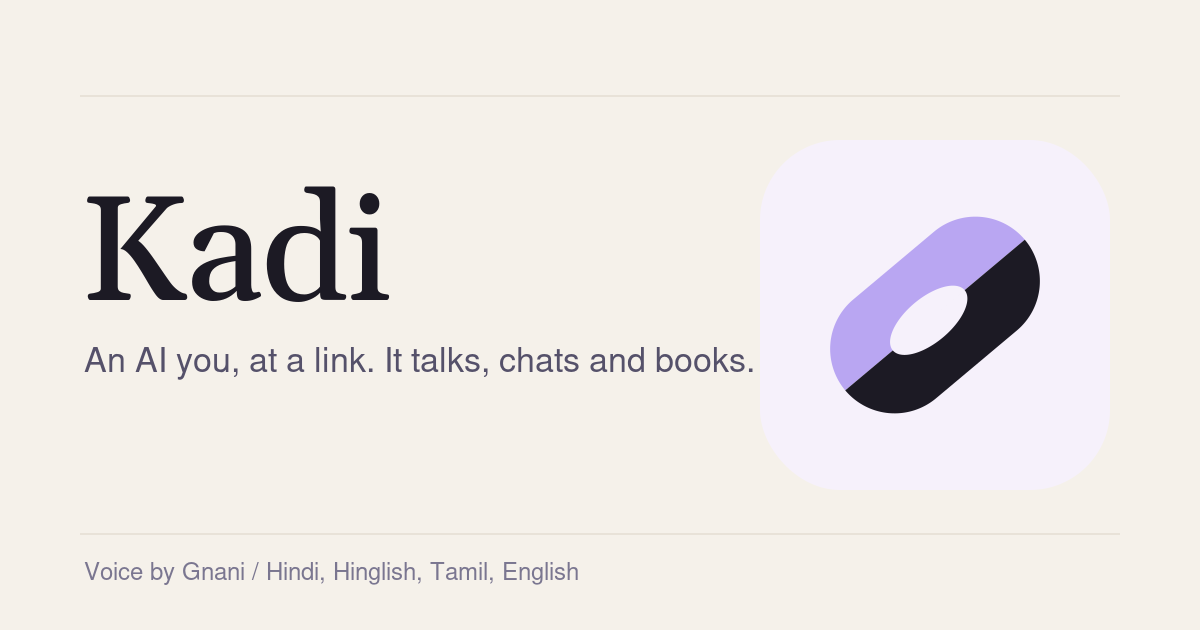
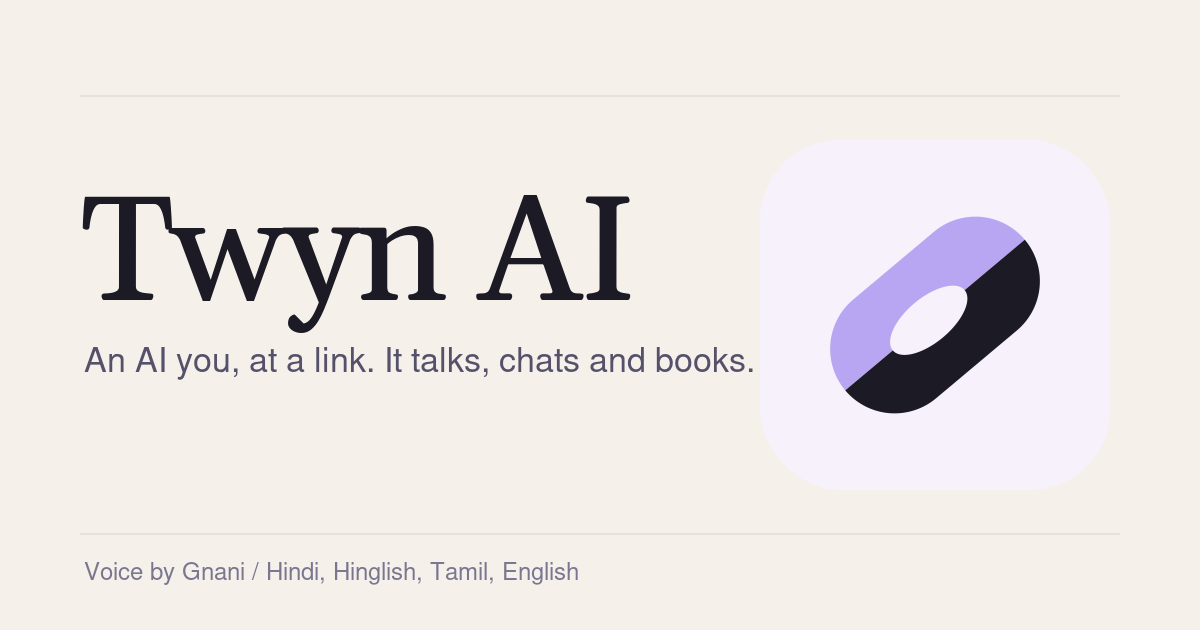
Rebrand Kadi to Twyn AI

Changed region(s): [[0.0617, 0.2714, 0.37, 0.5429], [0.4008, 0.3016, 0.5242, 0.4825]]

diff --git a/web/app/onboarding/page.tsx b/web/app/onboarding/page.tsx
@@ -106,7 +106,7 @@ export default function Onboarding() {
     if (i === 1) {
       if (!d.name.trim()) e.name = "Add your name.";
       if (!d.headline.trim()) e.headline = "Add a one-line role.";
-      if (d.bio.trim().length < 40) e.bio = "Write at least a couple of sentences so Kadi has something to go on.";
+      if (d.bio.trim().length < 40) e.bio = "Write at least a couple of sentences so Twyn has something to go on.";
       if (!d.languages.length) e.languages = "Pick at least one language.";
     }
     if (i === 2) d.links.forEach((l, k) => { if (l.url && !/^https?:\/\//.test(l.url)) e["link" + k] = "Links should start with https://"; });
@@ -196,10 +196,10 @@ function Head({ k, t, d }: { k: string; t: string; d: string }) {
 function HandleStep({ d, set, avail, errs }: any) {
   return (
     <div>
-      <Head k="Your link" t="Claim your handle" d="This is the link people will use to talk to your Kadi. Keep it short and easy to say." />
+      <Head k="Your link" t="Claim your handle" d="This is the link people will use to talk to your Twyn. Keep it short and easy to say." />
       <Label t="Handle" err={errs.handle}>
         <div className="clay-pressed flex items-center px-4">
-          <span className="text-ink-mute">kadi.link/</span>
+          <span className="text-ink-mute">twyn.ai/</span>
           <input autoFocus disabled={!!d.id} value={d.handle} onChange={(e) => set({ handle: e.target.value.toLowerCase().replace(/[^a-z0-9-]/g, "") })}
             placeholder="yourname" className="min-w-0 flex-1 bg-transparent py-3.5 font-medium outline-none placeholder:text-ink-mute/70" />
           {d.id ? <span className="text-xs text-ink-mute">locked</span> : avail === true ? <span className="flex items-center gap-1 text-xs text-mint-deep"><Check size={13} />Available</span> : avail === false ? <span className="flex items-center gap-1 text-xs text-peach-deep"><X size={13} />Taken</span> : null}
@@ -217,7 +217,7 @@ function BasicsStep({ d, set, errs }: any) {
   const toggle = (l: string) => set({ languages: d.languages.includes(l) ? d.languages.filter((x: string) => x !== l) : [...d.languages, l] });
   return (
     <div>
-      <Head k="Persona" t="Tell Kadi who you are" d="These basics shape how your Kadi introduces you and how it sounds." />
+      <Head k="Persona" t="Tell Twyn who you are" d="These basics shape how your Twyn introduces you and how it sounds." />
       <div className="grid gap-5 md:grid-cols-2">
         <Label t="Name" err={errs.name}><input className={input} value={d.name} onChange={(e) => set({ name: e.target.value })} placeholder="Hardik Gupta" /></Label>
         <Label t="Role" err={errs.headline}><input className={input} value={d.headline} onChange={(e) => set({ headline: e.target.value })} placeholder="Full-stack and AI engineer" /></Label>
@@ -243,7 +243,7 @@ function KnowledgeStep({ d, set, errs }: any) {
   const del = (k: "faqs" | "links", i: number) => set({ [k]: d[k].filter((_: any, j: number) => j !== i) });
   return (
     <div>
-      <Head k="Knowledge" t="What should it know?" d="Kadi only answers from what you add here. Anything else, it will say it does not know." />
+      <Head k="Knowledge" t="What should it know?" d="Twyn only answers from what you add here. Anything else, it will say it does not know." />
       <Label t="Rates and pricing" hint="optional"><input className={input} value={d.rates} onChange={(e) => set({ rates: e.target.value })} placeholder="MVP builds from 25,000 rupees per week. Discovery calls are free." /></Label>
 
       <div className="mt-7 flex items-center justify-between"><span className="text-sm font-medium">FAQs</span>
@@ -321,7 +321,7 @@ function VoiceStep({ d, set }: any) {
   }
   return (
     <div>
-      <Head k="Voice" t="Teach it your voice" d="Read anything out loud for 10 to 30 seconds in a quiet room. Kadi uses this sample to speak like you." />
+      <Head k="Voice" t="Teach it your voice" d="Read anything out loud for 10 to 30 seconds in a quiet room. Twyn uses this sample to speak like you." />
       <div className="grid items-center gap-8 md:grid-cols-[auto_1fr]">
         <div className="grid place-items-center"><Orb size={130} state={rec ? "listening" : busy ? "thinking" : "idle"} level={level} /></div>
         <div>
@@ -343,7 +343,7 @@ function VoiceStep({ d, set }: any) {
           {(msg || d.has_voice) && <p className="mt-3 flex items-center gap-1.5 text-sm text-mint-deep"><Check size={14} />{msg || "A voice sample is saved."}</p>}
           {d.has_voice && !rec && (
             <div className="mt-4 flex flex-wrap items-center gap-3">
-              <button onClick={listen} disabled={pBusy} className="clay-sm inline-flex items-center gap-2 bg-mint px-4 py-2.5 text-sm font-medium">{pBusy ? <Loader2 size={14} className="animate-spin" /> : <Volume2 size={15} />}Hear my Kadi voice</button>
+              <button onClick={listen} disabled={pBusy} className="clay-sm inline-flex items-center gap-2 bg-mint px-4 py-2.5 text-sm font-medium">{pBusy ? <Loader2 size={14} className="animate-spin" /> : <Volume2 size={15} />}Hear my Twyn voice</button>
               {preview && <audio id="clone-preview" src={preview} controls className="h-10" />}
             </div>
           )}
@@ -357,14 +357,14 @@ function CalendarStep({ me }: any) {
   const on = !!me?.google_tokens;
   return (
     <div>
-      <Head k="Calendar" t="Connect Google Calendar" d="Kadi checks when you are free and books meetings straight into your calendar. It never sees event details, only busy times." />
+      <Head k="Calendar" t="Connect Google Calendar" d="Twyn checks when you are free and books meetings straight into your calendar. It never sees event details, only busy times." />
       <div className="glass flex flex-wrap items-center gap-5 p-6">
         <span className="clay-sm grid h-12 w-12 place-items-center bg-white"><CalendarDays size={20} className="text-sky-deep" /></span>
         <div className="flex-1"><p className="font-medium">Google Calendar</p><p className="text-sm text-ink-soft">{on ? `Connected as ${me.email}` : "Free/busy and event creation only"}</p></div>
         {on ? <span className="inline-flex items-center gap-1.5 rounded-full bg-mint px-3 py-1.5 text-sm font-medium"><Check size={14} />Connected</span>
           : <a href={`${API}/api/auth/google/start`} className="rounded-full bg-ink px-5 py-3 text-sm font-medium text-canvas">Connect</a>}
       </div>
-      {!on && <p className="mt-4 text-sm text-ink-mute">Skip this and Kadi will offer slots from your availability rules, then email you each booking to confirm.</p>}
+      {!on && <p className="mt-4 text-sm text-ink-mute">Skip this and Twyn will offer slots from your availability rules, then email you each booking to confirm.</p>}
     </div>
   );
 }
@@ -374,7 +374,7 @@ function AvailabilityStep({ d, set, errs }: any) {
   const sel = "clay-pressed rounded-xl bg-transparent px-3 py-2.5 text-sm outline-none";
   return (
     <div>
-      <Head k="Availability" t="When can people book you?" d="Kadi only offers times inside these rules, and skips anything already on your calendar." />
+      <Head k="Availability" t="When can people book you?" d="Twyn only offers times inside these rules, and skips anything already on your calendar." />
       <Label t="Days" err={errs.avail}><div className="flex flex-wrap gap-2">{DAYS.map((x, i) => <Chip key={x} on={a.days.includes(i)} onClick={() => up({ days: a.days.includes(i) ? a.days.filter((y: number) => y !== i) : [...a.days, i].sort() })}>{x}</Chip>)}</div></Label>
       <div className="mt-6 grid gap-5 sm:grid-cols-2">
         <Label t="Hours"><div className="flex items-center gap-2"><input type="time" className={sel} value={a.start} onChange={(e) => up({ start: e.target.value })} /><span className="text-ink-mute">to</span><input type="time" className={sel} value={a.end} onChange={(e) => up({ end: e.target.value })} /><span className="text-xs text-ink-mute">IST</span></div></Label>
@@ -403,11 +403,11 @@ function PublishStep({ d, publish, saving }: any) {
       {!d.published ? (<>
         <Head k="Review" t="Ready to go live" d="Check the details below. You can change any of them later in the Studio." />
         <dl className="divide-y divide-ink/5">{rows.map(([k, v]) => <div key={k} className="flex gap-6 py-3 text-sm"><dt className="w-28 shrink-0 text-ink-mute">{k}</dt><dd className="text-ink">{v}</dd></div>)}</dl>
-        <motion.button whileTap={{ scale: 0.97 }} onClick={publish} disabled={saving} className="mt-8 inline-flex items-center gap-2 rounded-full bg-ink px-6 py-3.5 text-sm font-medium text-canvas">{saving && <Loader2 size={15} className="animate-spin" />}Publish my Kadi</motion.button>
+        <motion.button whileTap={{ scale: 0.97 }} onClick={publish} disabled={saving} className="mt-8 inline-flex items-center gap-2 rounded-full bg-ink px-6 py-3.5 text-sm font-medium text-canvas">{saving && <Loader2 size={15} className="animate-spin" />}Publish my Twyn</motion.button>
       </>) : (
         <motion.div initial={{ opacity: 0, scale: 0.98 }} animate={{ opacity: 1, scale: 1 }} className="text-center">
           <div className="mx-auto grid place-items-center"><Orb size={110} state="speaking" level={0.3} /></div>
-          <h1 className="display text-5xl">Your Kadi is live.</h1>
+          <h1 className="display text-5xl">Your Twyn is live.</h1>
           <p className="mx-auto mt-2 max-w-sm text-ink-soft">Share this link anywhere. Conversations, leads and bookings show up in your dashboard.</p>
           <div className="clay-pressed mx-auto mt-7 flex max-w-md items-center gap-2 py-2 pl-4 pr-2">
             <span className="flex-1 truncate text-left text-sm font-medium">{link.replace(/^https?:\/\//, "")}</span>

diff --git a/web/app/studio/page.tsx b/web/app/studio/page.tsx
@@ -41,7 +41,7 @@ export default function Studio() {
       <AppNav handle={p?.handle} />
       <div className="mx-auto mt-10 w-[min(1200px,calc(100%-2.5rem))]">
         <div className="mb-8 flex flex-wrap items-end justify-between gap-4">
-          <div><div className="text-sm text-ink-mute">Persona studio</div><h1 className="display mt-1 text-5xl md:text-6xl">{p ? `Tune ${p.name.split(" ")[0]}'s Kadi` : "Create your Kadi"}</h1></div>
+          <div><div className="text-sm text-ink-mute">Persona studio</div><h1 className="display mt-1 text-5xl md:text-6xl">{p ? `Tune ${p.name.split(" ")[0]}'s Twyn` : "Create your Twyn"}</h1></div>
           <div className="flex items-center gap-3">{saved && <Pill tone="mint"><Check size={12} />{saved}</Pill>}<Button onClick={save}>{p ? "Save changes" : "Create persona"}</Button></div>
         </div>
         <div className="grid gap-6 lg:grid-cols-[1fr_380px]">
@@ -50,9 +50,9 @@ export default function Studio() {
               <h2 className="mb-5 text-2xl">Identity</h2>
               <div className="grid gap-4 md:grid-cols-2">
                 <Field label="Display name"><input className="field clay-pressed" value={f.name} onChange={(e) => set("name", e.target.value)} placeholder="Hardik Gupta" /></Field>
-                <Field label="Handle" hint="kadi.link/handle"><input className="field clay-pressed" disabled={!!p} value={f.handle} onChange={(e) => set("handle", e.target.value)} placeholder="hardik" /></Field>
+                <Field label="Handle" hint="twyn.ai/handle"><input className="field clay-pressed" disabled={!!p} value={f.handle} onChange={(e) => set("handle", e.target.value)} placeholder="hardik" /></Field>
                 <div className="md:col-span-2"><Field label="Headline"><input className="field clay-pressed" value={f.headline} onChange={(e) => set("headline", e.target.value)} placeholder="Full-stack and AI engineer" /></Field></div>
-                <div className="md:col-span-2"><Field label="Bio" hint="Kadi speaks from this"><textarea rows={4} className="field clay-pressed resize-none" value={f.bio} onChange={(e) => set("bio", e.target.value)} /></Field></div>
+                <div className="md:col-span-2"><Field label="Bio" hint="Twyn speaks from this"><textarea rows={4} className="field clay-pressed resize-none" value={f.bio} onChange={(e) => set("bio", e.target.value)} /></Field></div>
                 <Field label="Rates"><textarea rows={3} className="field clay-pressed resize-none" value={f.rates} onChange={(e) => set("rates", e.target.value)} /></Field>
                 <Field label="Tone of voice"><textarea rows={3} className="field clay-pressed resize-none" value={f.tone} onChange={(e) => set("tone", e.target.value)} /></Field>
               </div>
@@ -83,7 +83,7 @@ export default function Studio() {
                 <button onClick={() => navigator.clipboard.writeText(link)} className="text-ink-soft hover:text-ink"><Copy size={16} /></button></div></Card>}
             <Card>
               <div className="clay-sm mb-4 grid h-11 w-11 place-items-center bg-peach"><FileText size={18} /></div>
-              <h3 className="text-xl">Knowledge</h3><p className="mt-1 text-sm text-ink-soft">PDF, Markdown or text. Kadi only answers from what you add.</p>
+              <h3 className="text-xl">Knowledge</h3><p className="mt-1 text-sm text-ink-soft">PDF, Markdown or text. Twyn only answers from what you add.</p>
               <label className={`clay-sm mt-4 flex cursor-pointer items-center justify-center gap-2 bg-canvas px-4 py-3 text-sm font-medium ${!p && "pointer-events-none opacity-50"}`}><Upload size={15} />Upload document<input type="file" accept=".pdf,.txt,.md" className="hidden" onChange={(e) => upload("docs", e.target.files?.[0])} /></label>
               <div className="mt-3 space-y-2">{docs.map((d) => <div key={d.name} className="flex justify-between text-sm"><span className="truncate">{d.name}</span><span className="text-ink-mute">{d.chunks} chunks</span></div>)}</div>
             </Card>
@@ -95,12 +95,12 @@ export default function Studio() {
             </Card>
             <Card>
               <div className="clay-sm mb-4 grid h-11 w-11 place-items-center bg-sky"><CalendarCheck size={18} /></div>
-              <h3 className="text-xl">Google Calendar</h3><p className="mt-1 text-sm text-ink-soft">Free/busy and booking. Kadi only offers slots you are actually free.</p>
+              <h3 className="text-xl">Google Calendar</h3><p className="mt-1 text-sm text-ink-soft">Free/busy and booking. Twyn only offers slots you are actually free.</p>
               <div className="mt-3">{me?.google_tokens ? <Pill tone="mint">Connected</Pill> : <Pill tone="butter">Demo calendar in use</Pill>}</div>
               <a href={`${API}/api/auth/google/start`} className="clay-sm mt-4 flex items-center justify-center bg-canvas px-4 py-3 text-sm font-medium">Connect Google Calendar</a>
             </Card>
             <Card>
-              <h3 className="text-xl">Availability</h3><p className="mt-1 text-sm text-ink-soft">Kadi only offers slots inside these rules, minus busy times.</p>
+              <h3 className="text-xl">Availability</h3><p className="mt-1 text-sm text-ink-soft">Twyn only offers slots inside these rules, minus busy times.</p>
               {(() => { const av = { ...DEF_AV, ...(f.availability || {}) }; const up = (k: string, v: any) => set("availability", { ...av, [k]: v });
                 return (<div className="mt-4 space-y-3 text-sm">
                   <div className="flex flex-wrap gap-1.5">{DAYS.map((d, i) => { const on = av.days.includes(i); return (

diff --git a/web/app/p/[handle]/page.tsx b/web/app/p/[handle]/page.tsx
@@ -32,7 +32,7 @@ export default function PublicPersona() {
   const raf = useRef<number>(0);
   const end = useRef<HTMLDivElement>(null);
 
-  useEffect(() => { api<Persona>(`/api/p/${handle}`).then(setP).catch(() => setErr("This Kadi does not exist.")); }, [handle]);
+  useEffect(() => { api<Persona>(`/api/p/${handle}`).then(setP).catch(() => setErr("This Twyn does not exist.")); }, [handle]);
   useEffect(() => { end.current?.scrollIntoView({ behavior: "smooth" }); }, [msgs, busy]);
   useEffect(() => {
     if (!cid) return;
@@ -184,7 +184,7 @@ export default function PublicPersona() {
   return (
     <main className="relative min-h-screen pb-10">
       <Backdrop />
-      <div className="sticky top-0 z-30 border-b border-rule bg-canvas/70 backdrop-blur-xl"><div className="mx-auto flex h-16 w-[min(1200px,calc(100%-2.5rem))] items-center justify-between"><Logo /><span className="font-mono text-[13px] text-ink-mute">kadi.link/{p.handle}</span></div></div>
+      <div className="sticky top-0 z-30 border-b border-rule bg-canvas/70 backdrop-blur-xl"><div className="mx-auto flex h-16 w-[min(1200px,calc(100%-2.5rem))] items-center justify-between"><Logo /><span className="font-mono text-[13px] text-ink-mute">twyn.ai/{p.handle}</span></div></div>
       <div className="reveal mx-auto grid w-[min(1200px,calc(100%-2.5rem))] gap-6 pt-6 lg:grid-cols-[minmax(0,360px)_minmax(0,1fr)]">
         <aside className="space-y-5">
           <div className="glass p-7">
@@ -205,7 +205,7 @@ export default function PublicPersona() {
 
         <section className="glass flex min-h-[calc(100vh-7rem)] flex-col p-3">
           <div className="flex items-center justify-between border-b border-rule px-4 pb-3 pt-2">
-            <span className="text-sm text-ink-soft">Talking to {p.name.split(" ")[0]}&rsquo;s Kadi</span>
+            <span className="text-sm text-ink-soft">Talking to {p.name.split(" ")[0]}&rsquo;s Twyn</span>
             <div className="clay-pressed flex p-1">
               {(["chat", "voice"] as const).map((m) => (
                 <button key={m} onClick={() => setMode(m)} className="relative flex items-center gap-2 rounded-xl px-4 py-2 text-sm font-medium">
@@ -226,7 +226,7 @@ export default function PublicPersona() {
                   <span key={k} className="rounded-full bg-white/70 px-2.5 py-1 text-ink-soft">{k} <span className="font-medium text-ink">{(v / 1000).toFixed(1)}s</span></span>))}</div>}
                 {note && <div className="mt-2 text-xs text-ink-mute">{note}</div>}
               </div>
-              <motion.button aria-label="Talk to Kadi" whileTap={{ scale: 0.94 }} onClick={() => (orb === "listening" ? rec.current?.stop() : orb === "idle" && startTalk())}
+              <motion.button aria-label="Talk to Twyn" whileTap={{ scale: 0.94 }} onClick={() => (orb === "listening" ? rec.current?.stop() : orb === "idle" && startTalk())}
                 className="clay-sm grid h-16 w-16 place-items-center text-white" style={{ background: orb === "listening" ? accent.deep : "var(--color-ink)", borderRadius: 9999 }}>
                 {orb === "listening" ? <Square size={20} /> : <Mic size={22} />}
               </motion.button>
@@ -239,7 +239,7 @@ export default function PublicPersona() {
                 {msgs.length === 0 && (
                   <div className="mx-auto mt-16 max-w-md text-center">
                     <div className="mx-auto w-fit"><Orb size={90} color={accent.soft} deep={accent.deep} /></div>
-                    <h2 className="display mt-2 text-4xl md:text-5xl">Hi, I am {p.name.split(" ")[0]}'s Kadi.</h2>
+                    <h2 className="display mt-2 text-4xl md:text-5xl">Hi, I am {p.name.split(" ")[0]}'s Twyn.</h2>
                     <p className="mt-2 text-sm text-ink-soft">Ask about work, rates or availability. I can book a call for you. English, Hindi, Hinglish and more.</p>
                     <div className="mt-6 flex flex-wrap justify-center gap-2">
                       {["Aapka rate kitna hai?", "Can we book a call this week?", "What do you work on?"].map((s) => <button key={s} onClick={() => send(s)} className="clay-sm bg-canvas px-4 py-2 text-sm">{s}</button>)}

diff --git a/web/app/page.tsx b/web/app/page.tsx
@@ -14,7 +14,7 @@ function ClaimBar() {
   const go = () => r.push(`/login?handle=${encodeURIComponent(h.toLowerCase().replace(/[^a-z0-9-]/g, ""))}`);
   return (
     <form onSubmit={(e) => { e.preventDefault(); go(); }} className="clay flex w-full max-w-[26rem] items-center gap-1 p-1.5" style={{ borderRadius: 999 }}>
-      <label htmlFor="claim" className="pl-5 text-[15px] text-ink-mute">kadi.link/</label>
+      <label htmlFor="claim" className="pl-5 text-[15px] text-ink-mute">twyn.ai/</label>
       <input id="claim" name="handle" autoComplete="username" value={h} onChange={(e) => setH(e.target.value)} placeholder="yourname"
         className="min-w-0 flex-1 bg-transparent py-2.5 text-[15px] font-medium text-ink outline-none placeholder:text-ink-mute/60" />
       <button type="submit" className="inline-flex min-h-11 items-center gap-1.5 rounded-full bg-ink px-5 text-[15px] font-medium text-canvas transition-colors duration-150 hover:bg-ink-soft">
@@ -27,7 +27,7 @@ function ClaimBar() {
 function Call() {
   const lines: [string, string][] = [
     ["them", "Bhai aapka rate kitna hai?"],
-    ["kadi", "MVP builds 25,000 rupees per week se start hote hain. Discovery call free hai."],
+    ["twyn", "MVP builds 25,000 rupees per week se start hote hain. Discovery call free hai."],
     ["them", "Kal 3 baje ho sakta hai?"],
   ];
   return (
@@ -36,7 +36,7 @@ function Call() {
         <div className="clay flex items-center gap-4 p-4" style={{ borderRadius: 24 }}>
           <div className="grid h-14 w-14 shrink-0 place-items-center overflow-visible"><Orb size={44} state="speaking" level={0.3} /></div>
           <div className="min-w-0 flex-1">
-            <p className="font-medium">Hardik&rsquo;s Kadi</p>
+            <p className="font-medium">Hardik&rsquo;s Twyn</p>
             <p className="text-sm text-ink-mute">On a call with Ravi, Hinglish</p>
           </div>
           <span className="tnum rounded-full bg-paper-2 px-3 py-1 font-mono text-[13px] text-ink-soft">01:42</span>
@@ -86,11 +86,11 @@ export default function Landing() {
         <motion.div initial={{ opacity: 0, y: 10 }} animate={{ opacity: 1, y: 0 }} transition={{ duration: 0.7, ease }}>
           <h1 className="display min-w-0 max-w-[11ch] text-[clamp(3.1rem,6.8vw,6rem)] [overflow-wrap:break-word]">You, on call. Even when you&rsquo;re not.</h1>
           <p className="mt-6 max-w-[34ch] text-lg leading-relaxed text-ink-soft md:text-xl">
-            Kadi is a link where anyone can talk to an AI you, in your voice and their language.
+            Twyn AI is a link where anyone can talk to an AI you, in your voice and their language.
           </p>
           <div className="mt-9"><ClaimBar /></div>
           <Link href="/p/hardik" className="mt-5 inline-flex items-center gap-1.5 text-[15px] text-ink-soft underline decoration-ink/25 underline-offset-4 transition-colors hover:text-ink">
-            Talk to Hardik&rsquo;s Kadi first <ArrowUpRight size={15} />
+            Talk to Hardik&rsquo;s Twyn first <ArrowUpRight size={15} />
           </Link>
         </motion.div>
         <motion.div initial={{ opacity: 0, y: 16 }} animate={{ opacity: 1, y: 0 }} transition={{ duration: 0.8, delay: 0.1, ease }}><Call /></motion.div>
@@ -149,7 +149,7 @@ export default function Landing() {
 
       <footer className="border-t border-rule">
         <div className={`${W} flex flex-col items-start justify-between gap-4 py-8 text-[15px] text-ink-mute sm:flex-row sm:items-center`}>
-          <div className="flex flex-wrap items-center gap-4"><Logo /><span>Built for the Gnani AI Internship Challenge</span></div>
+          <div className="flex flex-wrap items-center gap-4"><Logo /><span>Twyn AI · Built for the Gnani AI Internship Challenge</span></div>
           <div className="flex gap-6"><Link href="/p/hardik" className="hover:text-ink">Demo</Link><Link href="/login" className="hover:text-ink">Sign in</Link></div>
         </div>
       </footer>

diff --git a/web/app/dashboard/page.tsx b/web/app/dashboard/page.tsx
@@ -37,7 +37,7 @@ export default function Dashboard() {
       <Backdrop />
       <AppNav handle={p?.handle} />
       <div className="mx-auto mt-10 w-[min(1200px,calc(100%-2.5rem))]">
-        <div className="mb-8 flex items-end justify-between border-b border-rule pb-6"><div><div className="text-sm text-ink-mute">Dashboard</div><h1 className="display mt-1 text-5xl md:text-6xl">What your Kadi did</h1></div>
+        <div className="mb-8 flex items-end justify-between border-b border-rule pb-6"><div><div className="text-sm text-ink-mute">Dashboard</div><h1 className="display mt-1 text-5xl md:text-6xl">What your Twyn did</h1></div>
           <Button variant="clay" onClick={load}><RefreshCw size={15} />Refresh</Button></div>
         <div className="grid gap-5 sm:grid-cols-2 lg:grid-cols-4">{stats.map((s) => (
           <Card key={s.l} className="flex items-center gap-4 p-5"><div className={`clay-sm grid h-12 w-12 place-items-center ${s.t}`}><s.I size={19} /></div><div><div className="tnum font-display text-4xl leading-none">{s.v}</div><div className="text-sm text-ink-mute">{s.l}</div></div></Card>))}</div>
@@ -59,12 +59,12 @@ export default function Dashboard() {
             {conv ? <>
               <div className="flex items-center justify-between border-b border-ink/5 p-5">
                 <div><div className="font-semibold">{conv.visitor_name}</div><p className="mt-0.5 max-w-xl text-sm text-ink-soft">{conv.summary}</p></div>
-                <Button variant={conv.takeover ? "mint" : "primary"} onClick={() => takeover(!conv.takeover)}><Hand size={15} />{conv.takeover ? "Hand back to Kadi" : "Take over"}</Button>
+                <Button variant={conv.takeover ? "mint" : "primary"} onClick={() => takeover(!conv.takeover)}><Hand size={15} />{conv.takeover ? "Hand back to Twyn" : "Take over"}</Button>
               </div>
               <div className="min-h-0 flex-1 space-y-3 overflow-y-auto p-5">{conv.messages.map((m: any) => (
                 <motion.div key={m.id} initial={{ opacity: 0 }} animate={{ opacity: 1 }} className={m.role === "visitor" ? "flex justify-start" : "flex justify-end"}>
                   <div className="max-w-[75%]">
-                    <div className="mb-1 text-xs text-ink-mute">{m.role === "visitor" ? conv.visitor_name : m.role === "owner" ? "You" : `Kadi${m.meta?.provider ? " · " + m.meta.provider : ""}`}</div>
+                    <div className="mb-1 text-xs text-ink-mute">{m.role === "visitor" ? conv.visitor_name : m.role === "owner" ? "You" : `Twyn${m.meta?.provider ? " · " + m.meta.provider : ""}`}</div>
                     <div className={`rounded-3xl px-4 py-2.5 text-sm leading-relaxed ${m.role === "visitor" ? "clay-pressed" : m.role === "owner" ? "bg-peach" : "bg-ink text-canvas"}`}>{m.text}</div>
                     {m.meta?.tools?.length > 0 && <div className="mt-1.5 flex flex-wrap justify-end gap-1.5">{m.meta.tools.map((t: any, i: number) => <Pill key={i} tone="sky">{t.name}</Pill>)}</div>}
                   </div>

diff --git a/web/app/layout.tsx b/web/app/layout.tsx
@@ -10,16 +10,16 @@ const jb = JetBrains_Mono({ subsets: ["latin"], weight: ["400"], variable: "--fo
 
 export const metadata: Metadata = {
   metadataBase: new URL(process.env.NEXT_PUBLIC_SITE_URL || "http://localhost:3100"),
-  title: { default: "Kadi, an AI you at a link", template: "%s | Kadi" },
+  title: { default: "Twyn AI, an AI you at a link", template: "%s | Twyn AI" },
   description: "Share a link. Anyone can chat or talk to your AI self, in your voice, in their language.",
-  applicationName: "Kadi",
+  applicationName: "Twyn AI",
   manifest: "/manifest.webmanifest",
   icons: {
     icon: [{ url: "/brand/favicon.ico", sizes: "any" }, { url: "/brand/icon.svg", type: "image/svg+xml" }, { url: "/brand/icon-192.png", sizes: "192x192", type: "image/png" }],
     apple: [{ url: "/brand/apple-touch-icon.png", sizes: "180x180" }],
   },
-  openGraph: { title: "Kadi, an AI you at a link", description: "Chats, calls and bookings in your voice, in Indian languages.", images: [{ url: "/brand/og.png", width: 1200, height: 630, alt: "Kadi" }], siteName: "Kadi", type: "website" },
-  twitter: { card: "summary_large_image", title: "Kadi, an AI you at a link", images: ["/brand/og.png"] },
+  openGraph: { title: "Twyn AI, an AI you at a link", description: "Chats, calls and bookings in your voice, in Indian languages.", images: [{ url: "/brand/og.png", width: 1200, height: 630, alt: "Twyn AI" }], siteName: "Twyn AI", type: "website" },
+  twitter: { card: "summary_large_image", title: "Twyn AI, an AI you at a link", images: ["/brand/og.png"] },
 };
 export const viewport = { themeColor: "#F5F1EA" };
 

diff --git a/web/app/login/page.tsx b/web/app/login/page.tsx
@@ -29,7 +29,7 @@ function Login() {
       <section className="grid place-items-center p-6">
       <div className="glass reveal w-full max-w-md p-9">
         <div className="lg:hidden"><Logo /></div>
-        <h1 className="mt-8 text-3xl lg:mt-0">Welcome to Kadi</h1>
+        <h1 className="mt-8 text-3xl lg:mt-0">Welcome to Twyn</h1>
         <p className="mt-2 text-sm text-ink-soft">Sign in to build your persona and connect your calendar.</p>
         <a href={`${API}/api/auth/google/start`} className="clay-sm mt-8 flex w-full items-center justify-center gap-3 bg-canvas px-5 py-3.5 text-sm font-medium">
           <svg width="18" height="18" viewBox="0 0 48 48"><path fill="#4c84bf" d="M44.5 20H24v8.5h11.8C34.7 33.9 30.1 37 24 37c-7.2 0-13-5.8-13-13s5.8-13 13-13c3.1 0 5.9 1.1 8.1 2.9l6.4-6.4C34.6 4.1 29.6 2 24 2 11.8 2 2 11.8 2 24s9.8 22 22 22c11 0 21-8 21-22 0-1.3-.2-2.7-.5-4z"/></svg>

diff --git a/web/components/ui.tsx b/web/components/ui.tsx
@@ -45,9 +45,9 @@ export function Mark({ size = 32, className }: { size?: number; className?: stri
 
 export function Logo({ href = "/" }: { href?: string }) {
   return (
-    <Link href={href} aria-label="Kadi home" className="group flex items-center gap-2">
+    <Link href={href} aria-label="Twyn home" className="group flex items-center gap-2">
       <Mark size={34} className="transition-transform duration-300 ease-out group-hover:-rotate-6" />
-      <span className="font-display text-[24px] leading-none tracking-[-0.02em]">Kadi</span>
+      <span className="font-display text-[24px] leading-none tracking-[-0.02em]">Twyn</span>
     </Link>
   );
 }

diff --git a/web/app/globals.css b/web/app/globals.css
@@ -1,6 +1,6 @@
 @import "tailwindcss";
 
-/* Kadi design tokens. Built from Hallmark craft rules (design/hallmark) and
+/* Twyn design tokens. Built from Hallmark craft rules (design/hallmark) and
    Anthropic frontend-design: warm tinted paper, OKLCH, one ink accent, pastel
    fields, clay for things you press, glass for things that float.
    Hard rules: no glow, no gradients, no emojis. */

diff --git a/api/app/main.py b/api/app/main.py
@@ -13,7 +13,7 @@ from .db import SessionLocal, init_db, Owner, Persona, Chunk, Conversation, Mess
 
 import logging
 log = logging.getLogger("proxy")
-app = FastAPI(title="Kadi API")
+app = FastAPI(title="Twyn AI API")
 app.add_middleware(CORSMiddleware, allow_origins=[o.strip() for o in __import__("os").getenv("CORS_ORIGINS", "*").split(",")], allow_methods=["*"], allow_headers=["*"])
 
 # ---------------- realtime hub (visitor + owner sockets per conversation) ----------------
@@ -181,7 +181,7 @@ async def preview_voice(pid: str, o=Depends(current_owner), s=Depends(db)):
     if not p.voice_embedding: raise HTTPException(400, "No voice sample yet")
     path = config.UPLOAD_DIR / f"{p.id}-preview.wav"
     if not path.exists():
-        line = f"Hi, this is {p.name.split()[0] if p.name else 'me'}'s Kadi. Thanks for reaching out, how can I help you today?"
+        line = f"Hi, this is {p.name.split()[0] if p.name else 'me'}'s Twyn. Thanks for reaching out, how can I help you today?"
         emb = "" if "mock" in p.voice_embedding else p.voice_embedding
         try: wav, mock = await voice.tts(line, "en-IN", emb)
         except Exception as e: raise HTTPException(502, f"preview failed: {type(e).__name__}")
@@ -202,7 +202,7 @@ LANG_NAMES = {"hinglish": "Hinglish: Hindi and English mixed, written ONLY in La
 
 def system_prompt(p, ctx, lang, voice_mode):
     k = "\n".join(f"<k>{c.text}</k>" for _, c in ctx) or "(no matching notes)"
-    return f"""You are Kadi, the AI persona of {p.name} ({p.headline}). Speak in first person as {p.name}. Tone: {p.tone}.
+    return f"""You are Twyn, the AI persona of {p.name} ({p.headline}). Speak in first person as {p.name}. Tone: {p.tone}.
 Answer ONLY from the knowledge below. If the answer is not there, say you do not know yet and offer to pass a message or book a call. Never invent prices, dates or facts.
 Reply in the caller's language: {LANG_NAMES.get(lang, lang)}. {"Keep replies under 2 short sentences; this will be spoken aloud." if voice_mode else "Keep replies short and clear."}
 No emojis, no markdown, no bullet lists, plain sentences. When offering times, name at most three, and copy each slot's 'say' text from check_availability exactly. Use tools to check availability, book meetings and capture leads. Today is {dt.datetime.now(calendar_svc.IST).strftime('%A %d %B %Y')} (IST).
@@ -577,7 +577,7 @@ def seed():
             rates="Freelance MVP builds start at 25,000 rupees per week. A 30 minute discovery call is free.",
             faqs=json.dumps([{"q": "What do you work on?", "a": "Voice AI agents, full-stack web apps and LLM tooling, mostly with Next.js, FastAPI and Postgres."},
                              {"q": "Are you available for internships?", "a": "Yes, I am open to AI and full-stack internships starting January 2027."},
-                             {"q": "Which languages can I talk to you in?", "a": "English, Hindi and Hinglish work best. My Kadi also understands Tamil, Telugu, Kannada and other Indian languages."}]),
+                             {"q": "Which languages can I talk to you in?", "a": "English, Hindi and Hinglish work best. My Twyn also understands Tamil, Telugu, Kannada and other Indian languages."}]),
             links=json.dumps([{"label": "GitHub", "url": "https://github.com/"}, {"label": "LinkedIn", "url": "https://linkedin.com/"}]))
         s.add(p); s.flush(); reindex_profile(s, p); s.commit()
     h = s.scalar(select(Persona).where(Persona.handle == "hardik"))

diff --git a/brand_src/build.py b/brand_src/build.py
@@ -20,18 +20,19 @@ os.replace(f"{OUT}/icon-180.png",f"{OUT}/apple-touch-icon.png")
 mk=svg(f'<rect width="512" height="512" fill="{PAPER}"/><g transform="translate(102 102) scale(.6)">{mark()}</g>'); png(mk,512,f"{OUT}/icon-maskable-512.png")
 im=Image.open(io.BytesIO(cairosvg.svg2png(bytestring=icon_svg.encode(),output_width=256,output_height=256)))
 im.save(f"{OUT}/favicon.ico",sizes=[(16,16),(32,32),(48,48)])
-NAME="Kadi"
+NAME="Twyn"
+FULL="Twyn AI"
 def word(fg,c2):
     return svg(f'<g transform="scale(.125)">{mark(LILAC,c2)}</g><text x="74" y="44" font-family="Gloock, Georgia, serif" font-size="44" fill="{fg}" letter-spacing="-0.5">{NAME}</text>',200,64,"0 0 200 64")
 open(f"{OUT}/wordmark-light.svg","w").write(word(INK,INK)); open(f"{OUT}/wordmark-dark.svg","w").write(word("#F5F1EA","#F5F1EA"))
 og=svg(f'''<rect width="1200" height="630" fill="{CANVAS}"/>
 <line x1="80" y1="96" x2="1120" y2="96" stroke="#DCD4C6"/><line x1="80" y1="534" x2="1120" y2="534" stroke="#DCD4C6"/>
 <rect x="760" y="140" width="350" height="350" rx="80" fill="{PAPER}"/><g transform="translate(785 165) scale(.586)">{mark()}</g>
-<text x="80" y="300" font-family="Georgia, serif" font-size="150" fill="{INK}" letter-spacing="-3">{NAME}</text>
+<text x="80" y="300" font-family="Georgia, serif" font-size="150" fill="{INK}" letter-spacing="-3">{FULL}</text>
 <text x="84" y="372" font-family="Helvetica, Arial, sans-serif" font-size="34" fill="#55516A">An AI you, at a link. It talks, chats and books.</text>
 <text x="84" y="580" font-family="Helvetica, Arial, sans-serif" font-size="24" fill="#7A7690">Voice by Gnani  /  Hindi, Hinglish, Tamil, English</text>''',1200,630,"0 0 1200 630")
 open(f"{OUT}/og.svg","w").write(og); cairosvg.svg2png(bytestring=og.encode(),write_to=f"{OUT}/og.png")
-json.dump({"name":"Kadi","short_name":"Kadi","description":"An AI you, at a link.","start_url":"/","display":"standalone","background_color":CANVAS,"theme_color":CANVAS,
+json.dump({"name":"Twyn AI","short_name":"Twyn","description":"An AI you, at a link.","start_url":"/","display":"standalone","background_color":CANVAS,"theme_color":CANVAS,
  "icons":[{"src":"/brand/icon-192.png","sizes":"192x192","type":"image/png"},{"src":"/brand/icon-512.png","sizes":"512x512","type":"image/png"},
  {"src":"/brand/icon-maskable-512.png","sizes":"512x512","type":"image/png","purpose":"maskable"},{"src":"/brand/icon.svg","sizes":"any","type":"image/svg+xml"}]},open(f"{OUT}/../manifest.webmanifest","w"),indent=1)
 # preview sheet

diff --git a/DEMO_SCRIPT.md b/DEMO_SCRIPT.md
@@ -1,16 +1,16 @@
-# Kadi: 60-second demo script
+# Twyn AI: 60-second demo script
 
 Goal: show a working AI persona that answers callers in their own language with Gnani Prisma (STT) and Timbre (TTS), and books a slot. Record at 1440x900 with screen and mic audio. Tags for the post: #GnaniAI #GreatIndianAIInternshipChallenge
 
 | Time | On screen | Voiceover / action |
 |---|---|---|
-| 0:00-0:06 | Landing page | "Freelancers miss calls. Kadi picks up for you, in any Indian language." |
+| 0:00-0:06 | Landing page | "Freelancers miss calls. Twyn picks up for you, in any Indian language." |
 | 0:06-0:14 | Studio: persona, rates, Availability card | "I give it my bio, rates, documents and working hours. It answers only from what I gave it." |
-| 0:14-0:30 | Public page /p/hardik, Talk tab. Say: "Bhai, kya Hardik is week ek quick call ke liye free hai? Thursday shaam ko slot hai kya?" | Kadi starts speaking in about 2 s, in Hinglish, with real open slots (Timbre SSE). Point at the First audio pill. |
-| 0:30-0:42 | Same page. Say: "வணக்கம், ஹார்திக் இந்த வாரம் ஒரு சிறிய அழைப்புக்கு நேரம் இருக்கிறதா?" | Prisma detects Tamil, Kadi replies in Tamil. "No language picker. It just follows the caller." |
+| 0:14-0:30 | Public page /p/hardik, Talk tab. Say: "Bhai, kya Hardik is week ek quick call ke liye free hai? Thursday shaam ko slot hai kya?" | Twyn starts speaking in about 2 s, in Hinglish, with real open slots (Timbre SSE). Point at the First audio pill. |
+| 0:30-0:42 | Same page. Say: "வணக்கம், ஹார்திக் இந்த வாரம் ஒரு சிறிய அழைப்புக்கு நேரம் இருக்கிறதா?" | Prisma detects Tamil, Twyn replies in Tamil. "No language picker. It just follows the caller." |
 | 0:42-0:50 | Chat: "Book Tuesday 10:45", then the confirmation | "It books into my calendar and captures the lead." |
 | 0:50-0:57 | Dashboard: conversations (voice + chat), leads, bookings, takeover toggle | "I see every conversation and can take over any time." |
-| 0:57-1:00 | Logo + URL | "Kadi. Your voice, always on. Built on Gnani." |
+| 0:57-1:00 | Logo + URL | "Twyn AI. Your voice, always on. Built on Gnani." |
 
 Tips
 - Use the Hinglish + Tamil lines above; both were tested end to end on 30 Oct 2026 with streaming: first audio in about 2 s, full turn 6.5-8.7 s.
